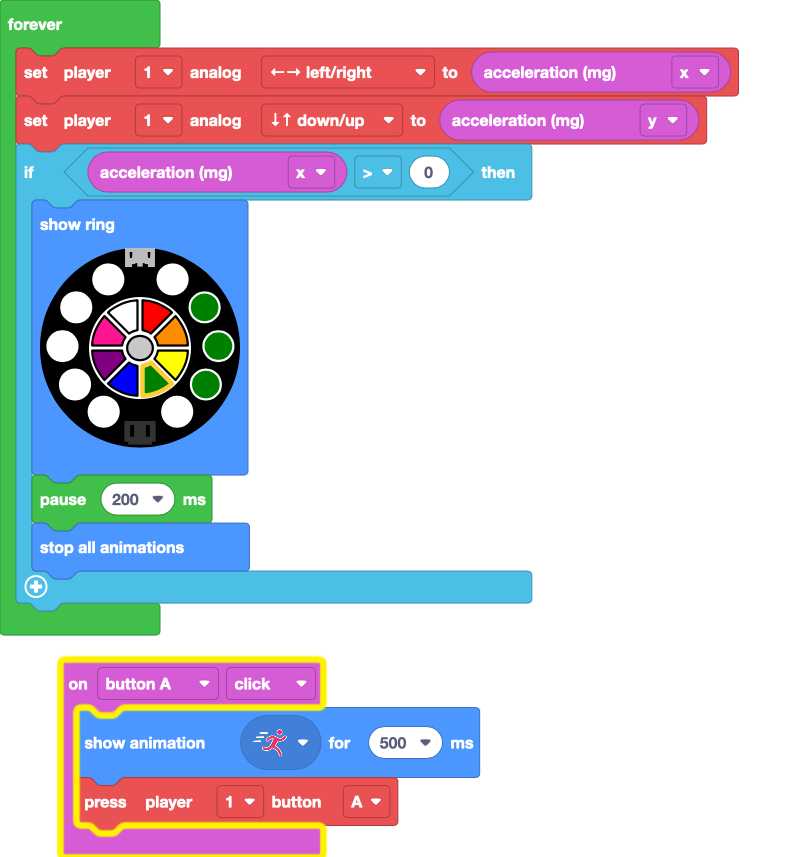
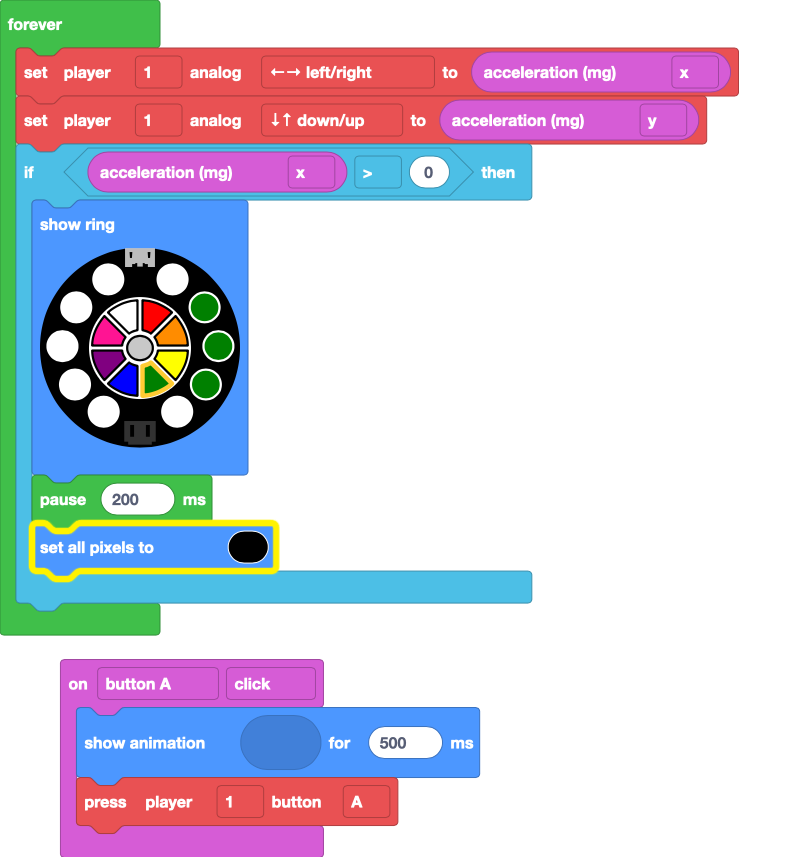
Update main.blocks, main.ts

Changed region(s): [[0.0608, 0.7585, 0.4253, 1.0], [0.0304, 0.5764, 0.3646, 0.6978]]

diff --git a/main.ts b/main.ts
@@ -10,6 +10,6 @@ forever(function () {
         `white white white white white white green green green white`
         )
         pause(200)
-        light.stopAllAnimations()
+        light.setAll(0x000000)
     }
 })
